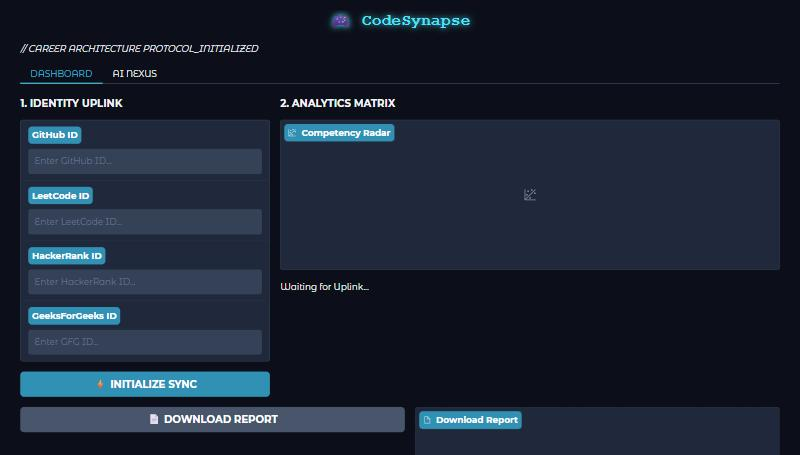
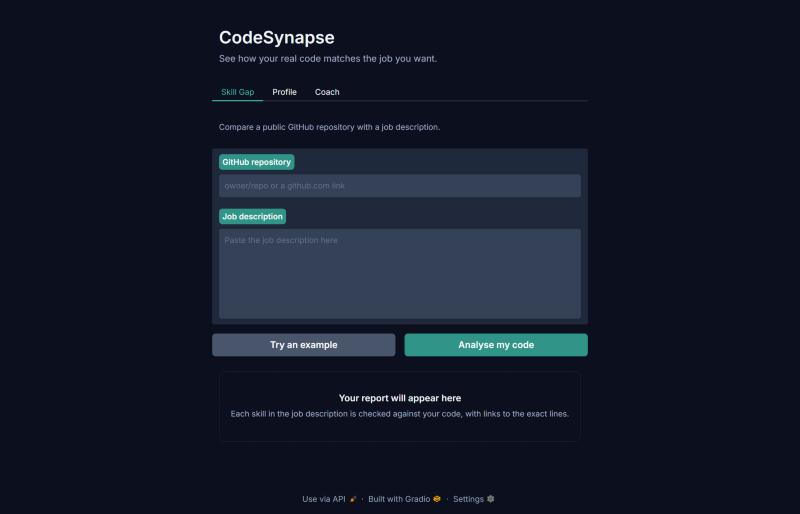
Sync portfolio with current GitHub (Nov 2026)
- Peheraav AI (renamed from Adaa): new repo, live URL, features, screenshot
- NyaySutra, CodeSynapse: current README details and repo screenshots
- LUMINA: mark benchmark/tests/CI as in review (open PRs, not on main)
- EduFlow ERP: link the now-public repo
- Add Coffee Shop Sales EDA project
- Skills regrouped to match the GitHub profile; headline and About updated
- Achievements: Solve for Goa, SIC programme, UIDAI & MeitY name
- Experience: remove client names and Solution Architect wording
- Badges readable on light screenshots; updated title and preview image

diff --git a/css/styles.css b/css/styles.css
@@ -251,9 +251,10 @@ button { font: inherit; color: inherit; }
 .cover-art .cover-title { position: relative; font-family: var(--font-head); font-size: 1.5rem; font-weight: 700; color: var(--text); max-width: 85%; line-height: 1.15; }
 .badges { position: absolute; top: 12px; left: 12px; display: flex; gap: 6px; z-index: 1; }
 .badge { font-size: .72rem; font-weight: 600; padding: 4px 10px; border-radius: 999px; backdrop-filter: blur(6px); }
-.badge-featured { background: color-mix(in srgb, var(--highlight) 25%, transparent); color: var(--highlight); border: 1px solid color-mix(in srgb, var(--highlight) 50%, transparent); }
-.badge-status { background: color-mix(in srgb, var(--accent-2) 22%, transparent); color: var(--accent-2); border: 1px solid color-mix(in srgb, var(--accent-2) 50%, transparent); }
-.badge-live { background: color-mix(in srgb, #22c55e 22%, transparent); color: #22c55e; border: 1px solid color-mix(in srgb, #22c55e 50%, transparent); }
+/* Badges sit on screenshots of any colour, so they use a fixed dark backing and bright text in both themes */
+.badge-featured { background: rgba(7, 11, 22, 0.82); color: #f5b14c; border: 1px solid rgba(245, 177, 76, 0.6); }
+.badge-status { background: rgba(7, 11, 22, 0.82); color: #38bdf8; border: 1px solid rgba(56, 189, 248, 0.6); }
+.badge-live { background: rgba(7, 11, 22, 0.82); color: #4ade80; border: 1px solid rgba(74, 222, 128, 0.6); }
 .project-body { display: flex; flex-direction: column; gap: 12px; padding: 22px; flex: 1; }
 .project-category { font-family: var(--font-mono); font-size: .75rem; color: var(--accent); text-transform: uppercase; letter-spacing: .06em; margin: 0; }
 .project-body h3 { font-size: 1.2rem; }

diff --git a/index.html b/index.html
@@ -3,16 +3,16 @@
 <head>
   <meta charset="utf-8">
   <meta name="viewport" content="width=device-width, initial-scale=1">
-  <title>Swarangi Kothawade | Data Analyst & AI Developer</title>
-  <meta name="description" content="Portfolio of Swarangi Kothawade, B.Tech Computer Science (AI & Data Science) student and Data Analyst Intern in Pune. Dashboards, data pipelines and agentic AI projects.">
+  <title>Swarangi Kothawade | AI / ML & Data Science Engineer</title>
+  <meta name="description" content="Portfolio of Swarangi Kothawade, B.Tech Computer Science (AI & Data Science) student and Data Analyst Intern in Pune. Agentic RAG systems, grounded LLM apps, full-stack projects and BI dashboards.">
   <meta name="author" content="Swarangi Kothawade">
   <meta name="theme-color" content="#070b16">
   <link rel="canonical" href="https://swarangik-21.github.io/">
 
   <!-- Social sharing previews (LinkedIn, WhatsApp, X) -->
   <meta property="og:type" content="website">
-  <meta property="og:title" content="Swarangi Kothawade | Data Analyst & AI Developer">
-  <meta property="og:description" content="Dashboards, data pipelines and agentic AI projects. B.Tech CSE (AI & Data Science), Pune.">
+  <meta property="og:title" content="Swarangi Kothawade | AI / ML & Data Science Engineer">
+  <meta property="og:description" content="Agentic RAG systems, grounded LLM apps and data products. B.Tech CSE (AI & Data Science), Pune.">
   <meta property="og:url" content="https://swarangik-21.github.io/">
   <meta property="og:image" content="https://swarangik-21.github.io/assets/og-image.jpg">
   <meta name="twitter:card" content="summary_large_image">

diff --git a/README.md b/README.md
@@ -79,7 +79,7 @@ Open `content/projects.json` and copy an existing block, from `{` to `},`, then 
 },
 ```
 
-- `category` must be one of: `AI & Agents`, `Data & BI`, `Machine Learning`, `Other`.
+- `category` must be one of: `AI & Agents`, `Full-Stack`, `Data & BI`, `Machine Learning`, `Other`.
 - Leave `demo`, `github` or `image` as `""` when you don't have one. The button or picture is then hidden,
   and a coloured cover is drawn automatically.
 - `"featured": true` puts the project first, with a ★ badge.
